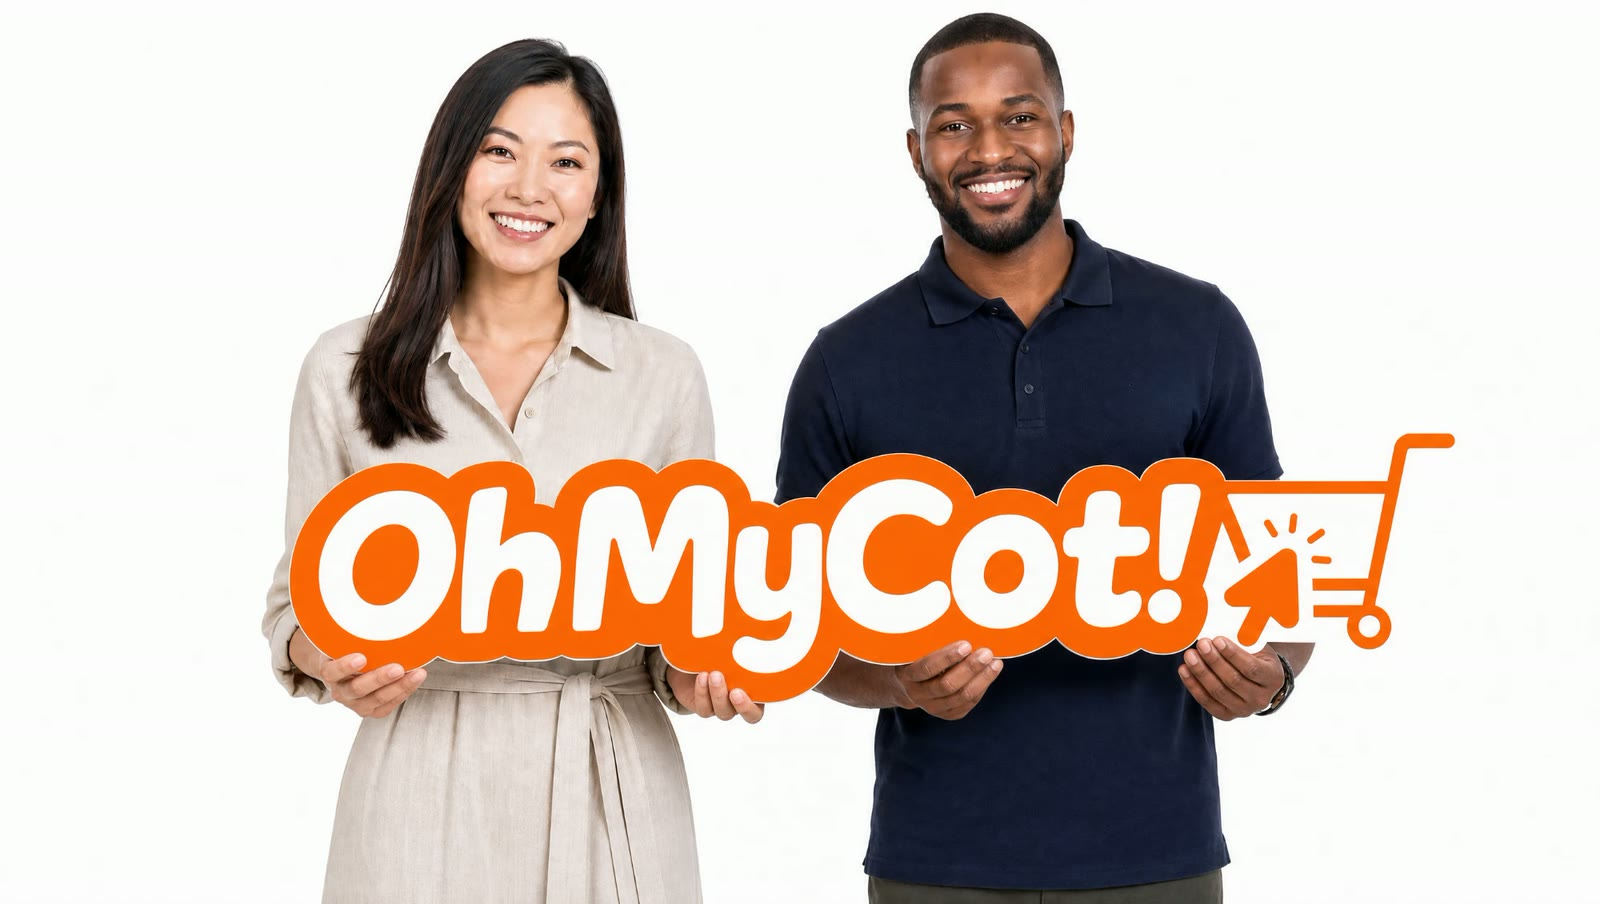
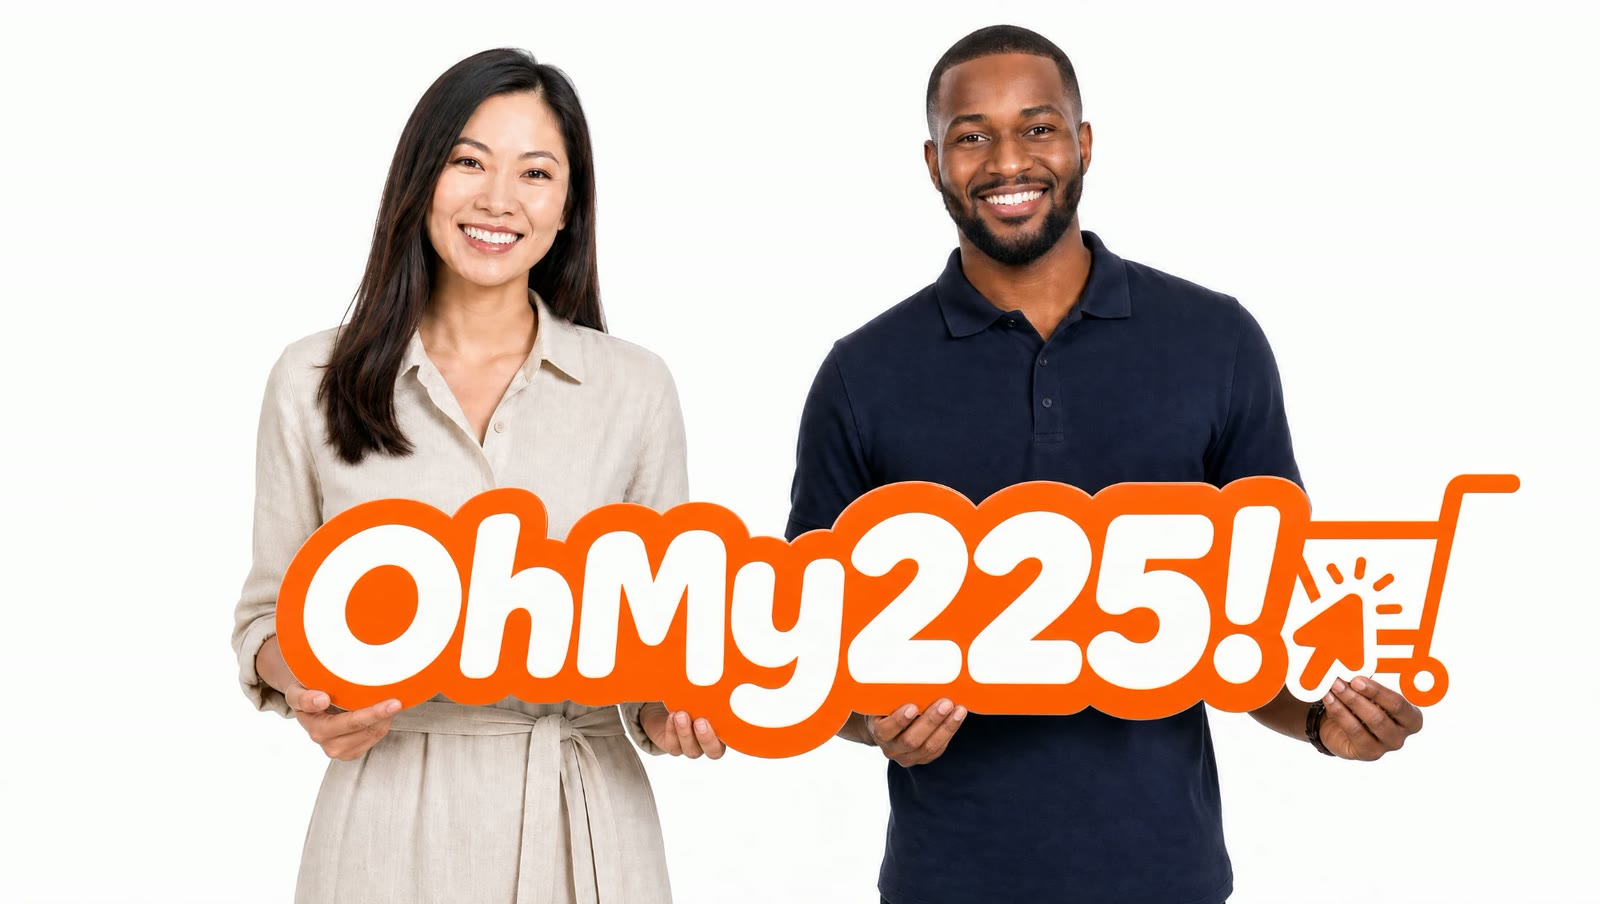
bio Côte d'Ivoire : nouveau visuel « OhMy225! »

Changed region(s): [[0.125, 0.0, 0.9688, 1.0]]

diff --git a/src/config/countries.ts b/src/config/countries.ts
@@ -148,7 +148,7 @@ export const COUNTRIES: Record<CountryCode, CountryConfig> = {
     transit: { air: [8, 14], sea: [60, 85] }, // TODO(franck) : délais vers Abidjan
     modules: { twinsk: false },
     favicon: '/brands/CI/favicon.png', // TODO(franck) : logo Oh My 225 !
-    // Visuel fourni par Franck le 25 sept. 2026 (équipe tenant le logo « OhMyCot! », ancien nom).
+    // Visuel fourni par Franck le 29 sept. 2026 (équipe tenant le logo « OhMy225! »).
     bioHero: { width: 1600, height: 904 },
   },
 };
